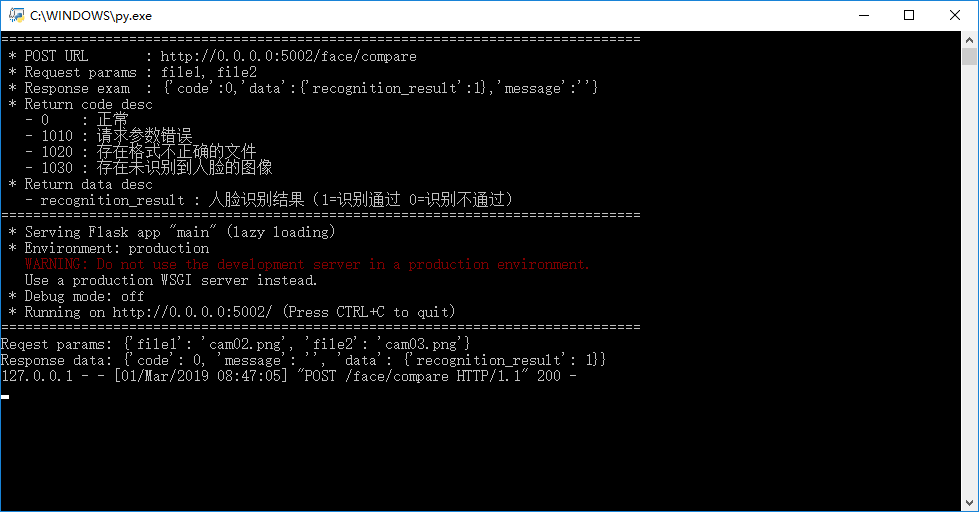
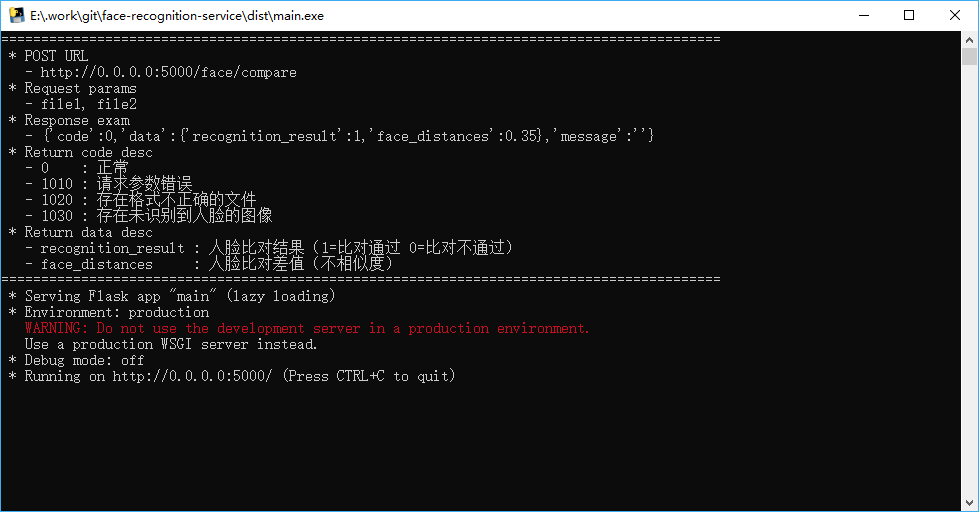
接口返回结果新增‘人脸比对差值’，补充文档

diff --git a/main.py b/main.py
@@ -24,7 +24,7 @@ app = Flask(__name__)
 CORS(app, resources=r'/*')
 
 
-# 首页面板
+# 接口文档页面
 @app.route('/', methods=['GET', 'POST'])
 def index():
     return"""
@@ -35,27 +35,31 @@ def index():
     <meta name="viewport" content="width=device-width, initial-scale=1.0">
     <meta http-equiv="X-UA-Compatible" content="ie=edge">
     <meta name="viewport" content="maximum-scale=1.0,minimum-scale=1.0,user-scalable=0,width=device-width,initial-scale=1.0"/>
-    <title>人脸识别服务</title>
+    <title>人脸比对服务接口文档</title>
     <style type="text/css">
         body { background-color: #fff; color: #000; font-size:14px; }
     </style>
 </head>
 <body>
     <div>
-        =============================================<br/>
-        <strong>人脸识别服务接口文档</strong><br/>
-        =============================================<br/>
-        * POST URL       : http://<script>document.write(window.location.host?window.location.host:'0.0.0.0');</script>/face/compare<br/>
-        * Request params : file1, file2<br/>
-        * Response exam  : {'code':0,'data':{'recognition_result':1},'message':''}<br/>
-        * Return code desc<br/>
+        ==================================================<br/>
+        <strong style='font-size:18px;'>人脸比对服务接口文档</strong><br/>
+        ==================================================<br/>
+        * <strong>POST URL</strong><br/>
+        &nbsp;&nbsp;&nbsp;- http://<script>document.write(window.location.host?window.location.host:'0.0.0.0');</script>/face/compare<br/>
+        * <strong>Request params</strong><br/>
+        &nbsp;&nbsp;&nbsp;- file1, file2<br/>
+        * <strong>Response exam</strong><br/>
+        &nbsp;&nbsp;&nbsp;- {'code':0,'data':{'recognition_result':1,'face_distances':0.35},'message':''}<br/>
+        * <strong>Return code desc</strong><br/>
         &nbsp;&nbsp;&nbsp;- 0&nbsp;&nbsp;&nbsp;&nbsp;&nbsp;&nbsp; : 正常<br/>
         &nbsp;&nbsp;&nbsp;- 1010 : 请求参数错误<br/>
         &nbsp;&nbsp;&nbsp;- 1020 : 存在格式不正确的文件<br/>
         &nbsp;&nbsp;&nbsp;- 1030 : 存在未识别到人脸的图像<br/>
-        * Return data desc<br/>
+        * <strong>Return data desc</strong><br/>
         &nbsp;&nbsp;&nbsp;- recognition_result : 人脸识别结果（1=识别通过 0=识别不通过）<br/>
-        =============================================<br/>
+        &nbsp;&nbsp;&nbsp;- face_distances&nbsp;&nbsp;&nbsp;&nbsp;&nbsp;&nbsp; : 人脸比对差值（不相似度）<br/>
+        ==================================================<br/>
     </div>
 </body>
 </html>
@@ -96,8 +100,11 @@ def face_compare():
     match_results = face_recognition.compare_faces([code2[0]], code1[0], tolerance=tolerance)
     recognition_result = 1 if match_results[0] else 0
 
+    # 测试两张图像中人脸比对的差值（不相似度）
+    face_distances = face_recognition.face_distance([code2[0]], code1[0])
+
     # 返回结果
-    return build_api_result(0, "", {"recognition_result": recognition_result})
+    return build_api_result(0, "", {"recognition_result": recognition_result, "face_distances": round(face_distances[0], 2)})
 
 
 # 检查文件扩展名
@@ -118,21 +125,25 @@ def build_api_result(code, message, data):
 
 # 打印分割线
 def print_split_line():
-    print("=" * 80)
+    print("=" * 90)
 
 
 if __name__ == "__main__":
     print_split_line()
-    print(" * POST URL       : http://0.0.0.0:%s/face/compare" % (port))
-    print(" * Request params : file1, file2")
-    print(" * Response exam  : {'code':0,'data':{'recognition_result':1},'message':''}")
+    print(" * POST URL")
+    print("   - http://0.0.0.0:%s/face/compare" % (port))
+    print(" * Request params")
+    print("   - file1, file2")
+    print(" * Response exam")
+    print("   - {'code':0,'data':{'recognition_result':1,'face_distances':0.35},'message':''}")
     print(" * Return code desc")
     print("   - 0    : 正常")
     print("   - 1010 : 请求参数错误")
     print("   - 1020 : 存在格式不正确的文件")
     print("   - 1030 : 存在未识别到人脸的图像")
     print(" * Return data desc")
-    print("   - recognition_result : 人脸识别结果（1=识别通过 0=识别不通过）")
+    print("   - recognition_result : 人脸比对结果（1=比对通过 0=比对不通过）")
+    print("   - face_distances     : 人脸比对差值（不相似度）")
     print_split_line()
     # Run
     app.config['JSON_AS_ASCII'] = False

diff --git a/README.md b/README.md
@@ -2,14 +2,18 @@
 
 #### 介绍
 
-使用 `face_recognition` & `flask` 构建的人脸识别对比服务，提供HTTP接口，Pyinstaller打包项目
+使用 `Face Recognition` & `Flask` 构建的人脸比对服务，提供HTTP接口，Pyinstaller打包项目为可独立运行的exe程序。
 
- 配置文件说明 `config.ini`：
+新增人脸比对差值，可参考接口返回结果中的 `face_distances` 自行判定是否比对通过。
+
+#### 配置文件说明 `config.ini`：
+
 ``` ini
 [config]
 ; 服务端口号，默认5000
-port=5002
-; 阈值，阈值太低容易造成无法成功识别人脸，太高容易造成人脸识别混淆，默认0.6，推荐0.39、0.49
+port=5000
+; 阈值，太低容易造成无法成功识别人脸，太高容易造成人脸识别混淆，默认0.6，推荐0.39、0.49
+; 也可以理解为两张人脸的差值（不相似度），比对结果 < 此值，人脸比对通过
 tolerance=0.49
 ; 允许上传文件的扩展名，默认png,jpg,jpeg
 allowed_extension=png,jpg,jpeg
@@ -18,6 +22,8 @@ allowed_extension=png,jpg,jpeg
 #### 运行效果
 
 ![截图](./screenshot/01.png)
+
+![截图](./screenshot/02.png)
 
 #### 开发环境
 
@@ -57,8 +63,9 @@ python setup.py install --yes USE_AVX_INSTRUCTIONS --yes DLIB_USE_CUDA
 5. `pip show dlib`
 6. `pip install face_recognition`
 7. `pip install configparser flask flask_cors`
-8. `python main.py`
-9. 请享用
+8. `cd 当前项目目录`
+9. `python main.py` 
+10. 请享用
 
 #### 打包教程
 
